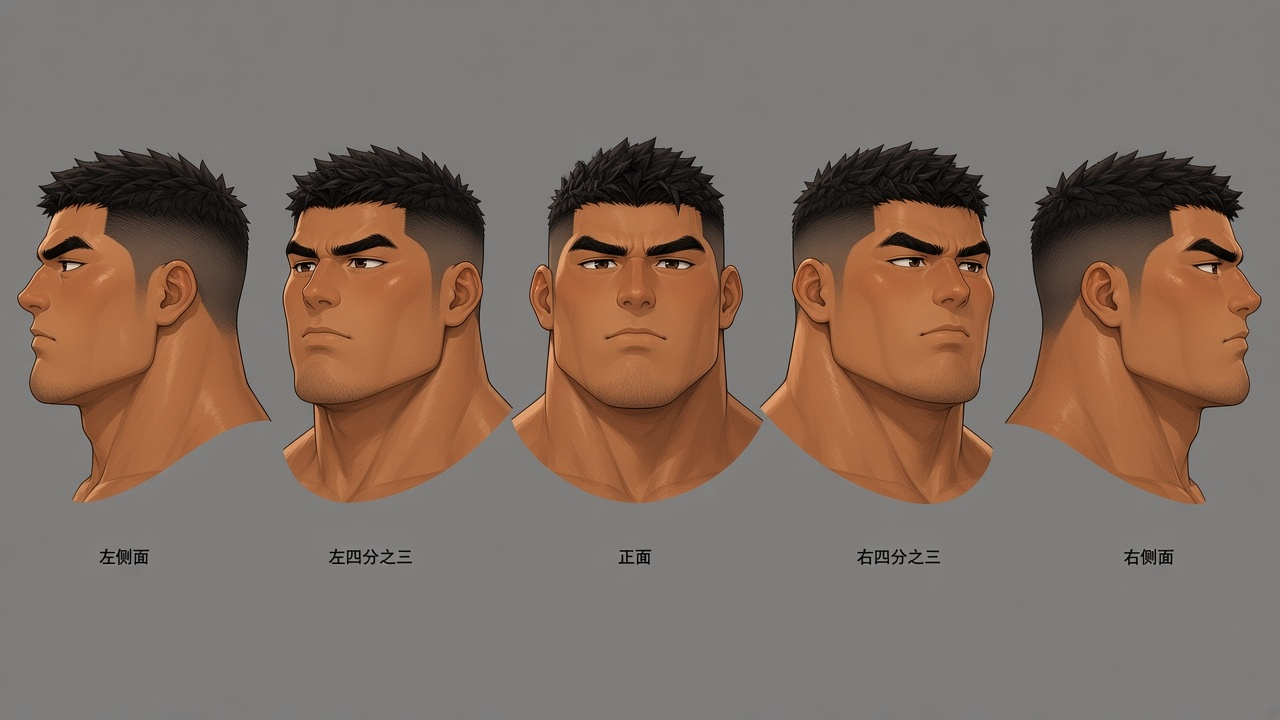
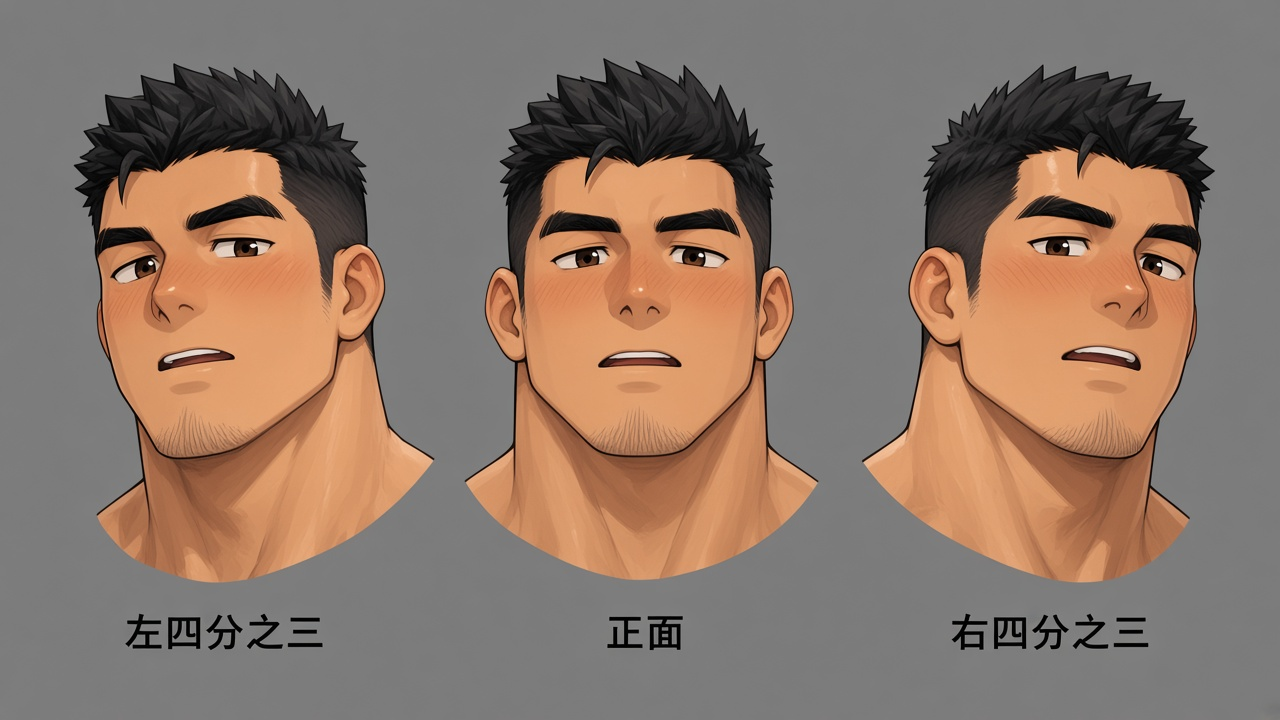
fix: 按五张原图重对脸型
五张淋浴参考的共同点是圆中带方、平眉、侧目、嘴微张、淡胡茬。身材仍用选定的高个子比例。

diff --git a/漫画分镜/多角度设定/设定说明.md b/漫画分镜/多角度设定/设定说明.md
@@ -1,11 +1,11 @@
 # 多角度设定
 
-身材按用户选定的那张正面全身：高、腿长、胸大但不过分鼓成球。脸按原图改宽改厚：脸颊满、下颌厚、不是瘦长脸。下身用平黑短裤。
+五张原图（`ComfyUI_temp_csgbr_00009`、`00011`、`00012`、`00013`、`00016`）对过之后，脸的共同点是：圆中带方，脸颊有肉，下颌清楚但不是削瘦的刀脸；眉又平又粗，不是倒八字怒眉；眼往侧边看，眼型是杏眼不是细缝；嘴经常微张，能看见一点牙；胡茬很淡，只在下巴和上唇。身材仍用用户选定的那张：高、腿长、胸大但不成球。下身用平黑短裤。
 
 ## 识别点
 
-- 脸：短碎发，两侧渐薄，眉骨重，眼窄，常往侧边看。脸短而宽，脸颊有肉，下颌厚，下巴和上唇一层薄胡茬。
-- 体：高，腿长。胸大而合理，肩宽，腹肌清楚，腰相对胸更收。不是矮胖，胸也不做成比头还大的球形。
+- 脸：短碎发，两侧渐薄。脸颊有肉，下颌方。眉平，眼往侧看，嘴微张，淡胡茬。
+- 体：高，腿长。胸大而合理，肩宽，腹肌清楚。
 - 肤色：暖小麦色。
 
 ## 图
